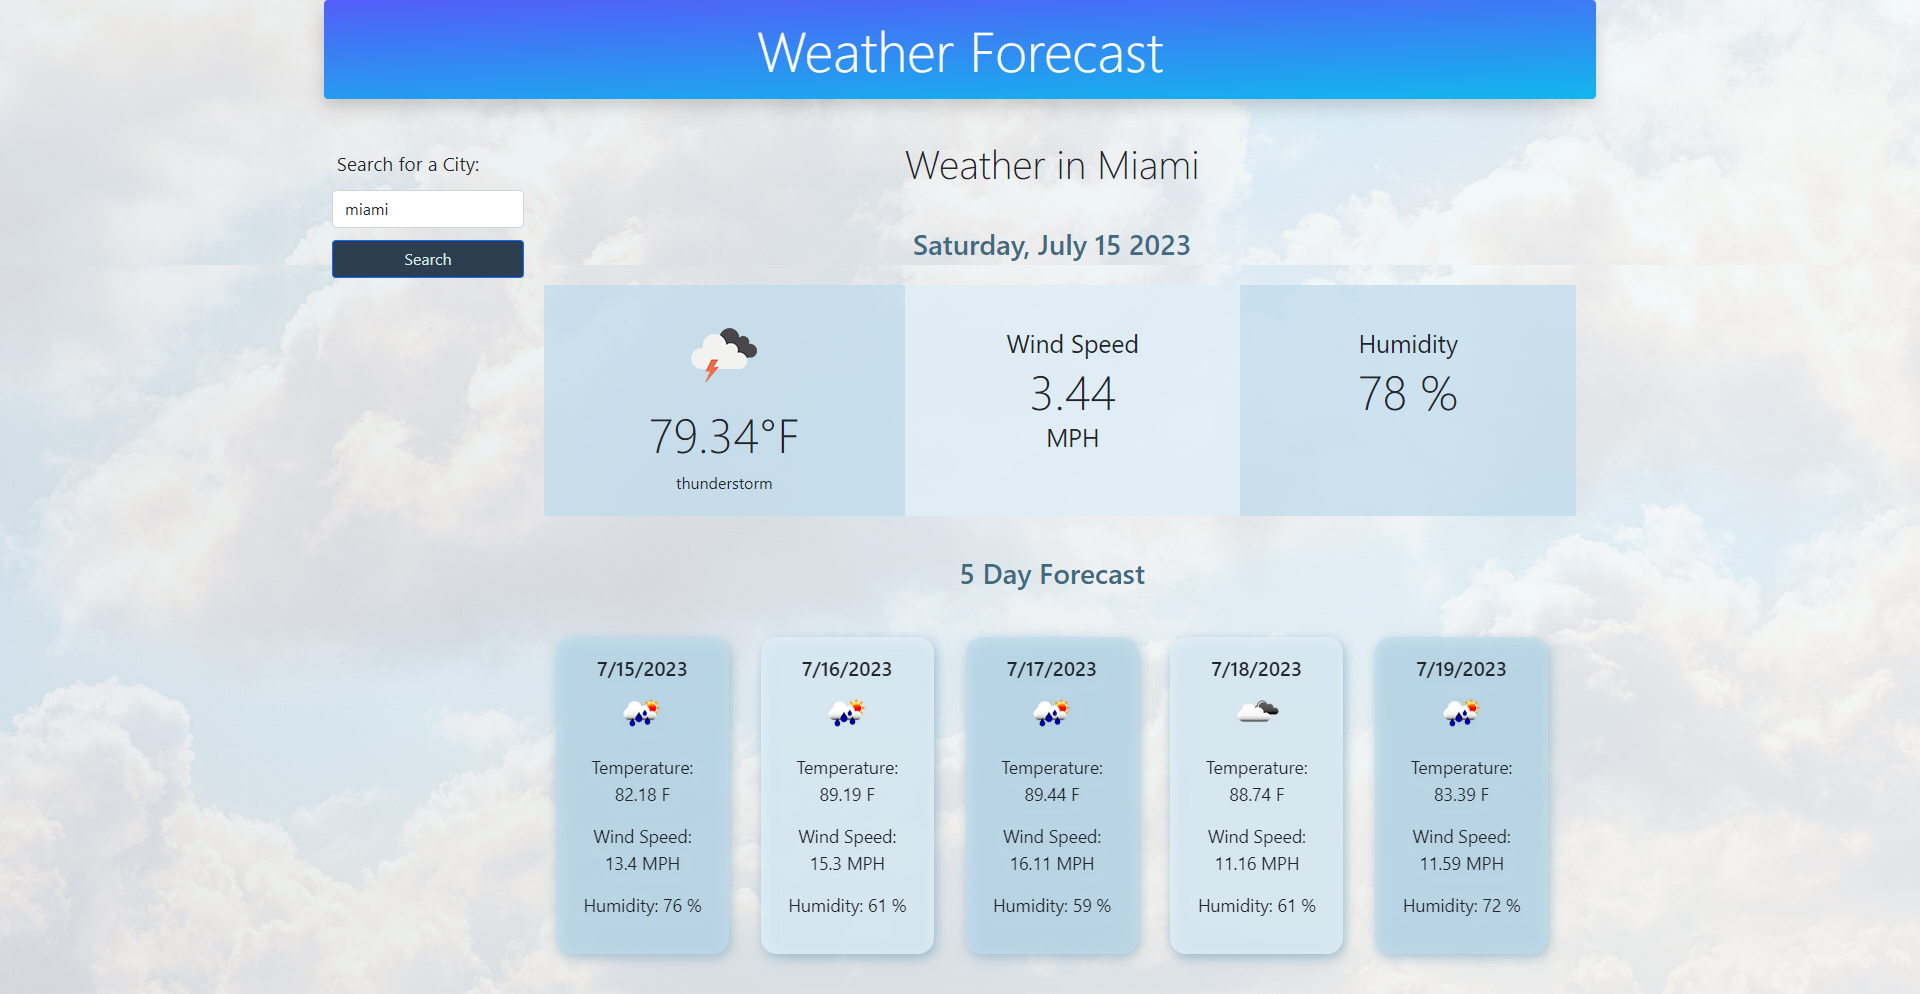
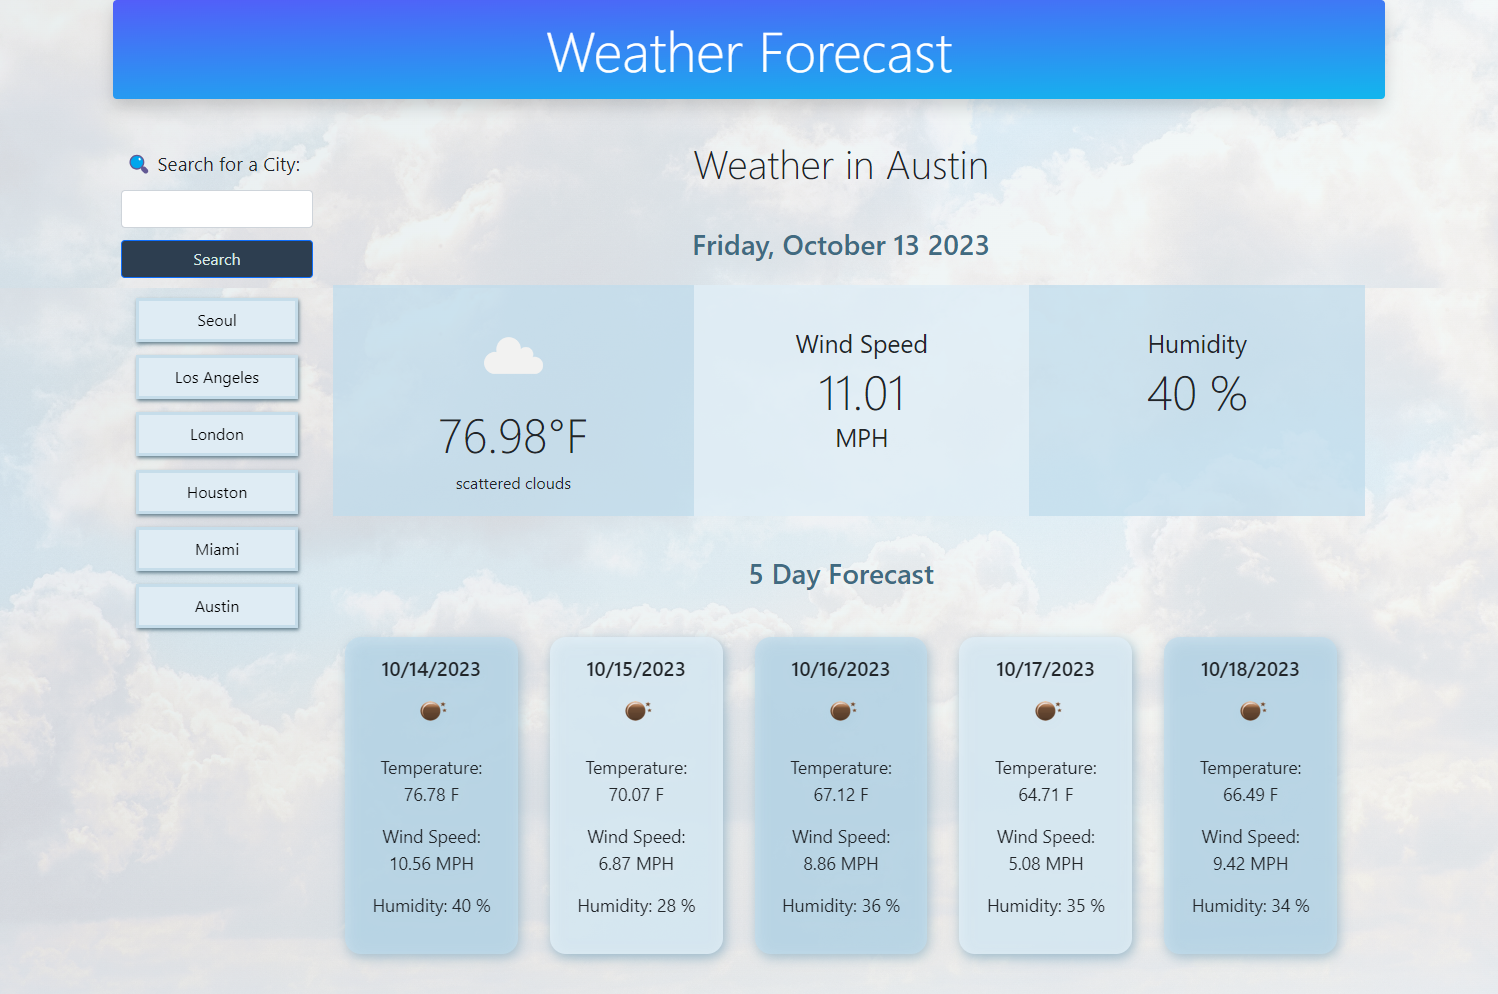
added hover and click effect to city history buttons and updated application screenshot

diff --git a/index.html b/index.html
@@ -20,8 +20,8 @@
     <div class="p-2 mb-3 mt-3 rounded col-md-2" id="sidebar">
 
       <form class="d-grid gap-2" id="searchForm">
-        <label for="searchCity" class="form-label">Search for a City:</label>
-        <input type="text" class="form-control mb-1 " id="searchCity" placeholder="New York"
+        <label for="searchCity" class="form-label"> &#128269; Search for a City:</label>
+        <input type="text" class="form-control mb-1 " id="searchCity" placeholder=""
           aria-describedby="searchForCity">
         <button type="submit" class="btn btn-primary" id="search-btn"> Search</button>
       </form>

diff --git a/assets/css/style.css b/assets/css/style.css
@@ -63,3 +63,12 @@ h3 {
     filter: drop-shadow(1px 2px 2px #607d8b);
     
 }
+
+.history-btn:hover {
+  background-color: #add8e6;
+}
+
+.history-btn:active {
+  background-color: #3e7bf5;
+  color: white;
+}
